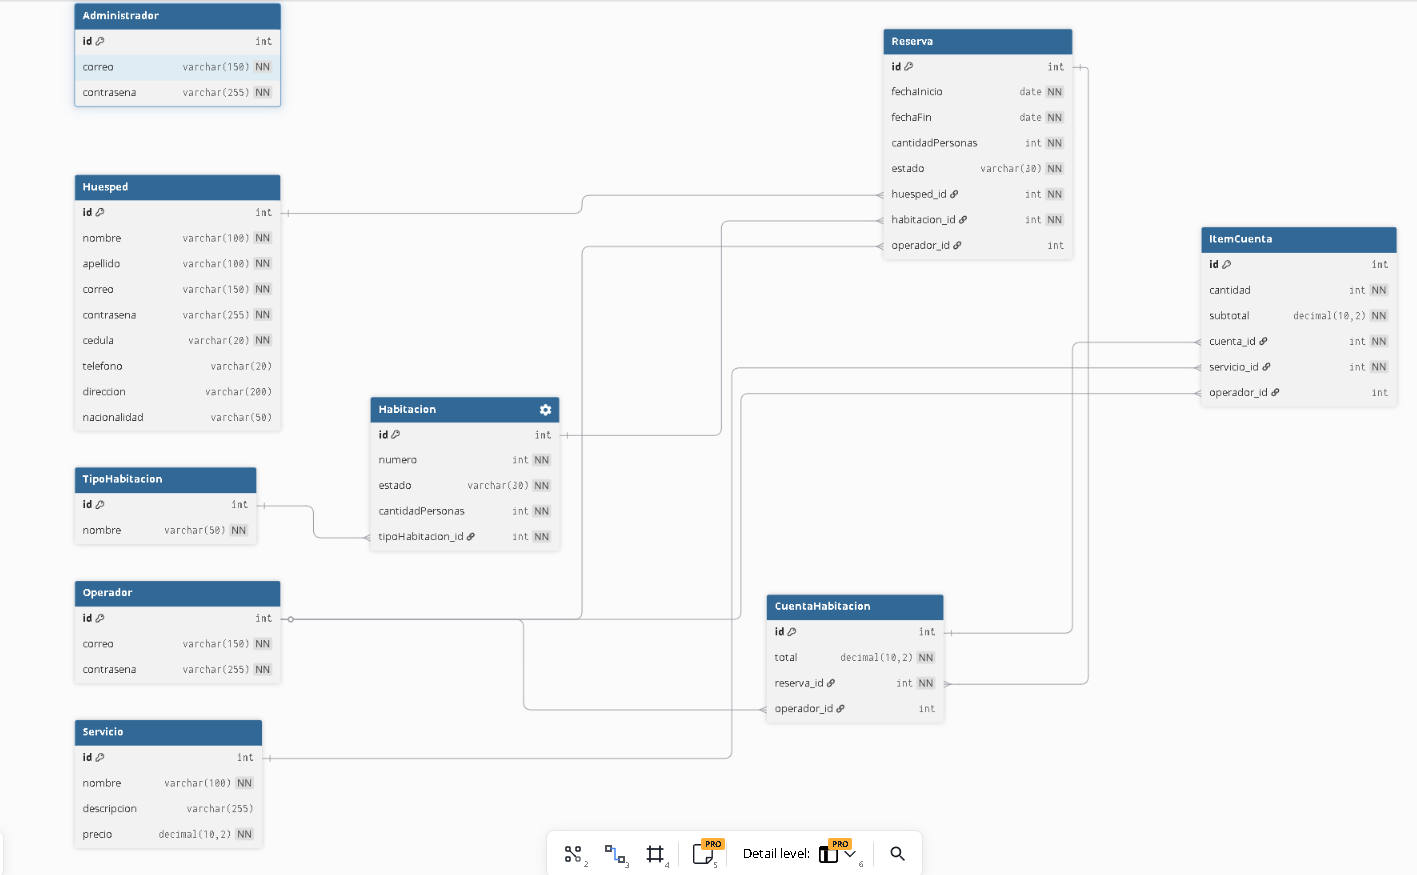
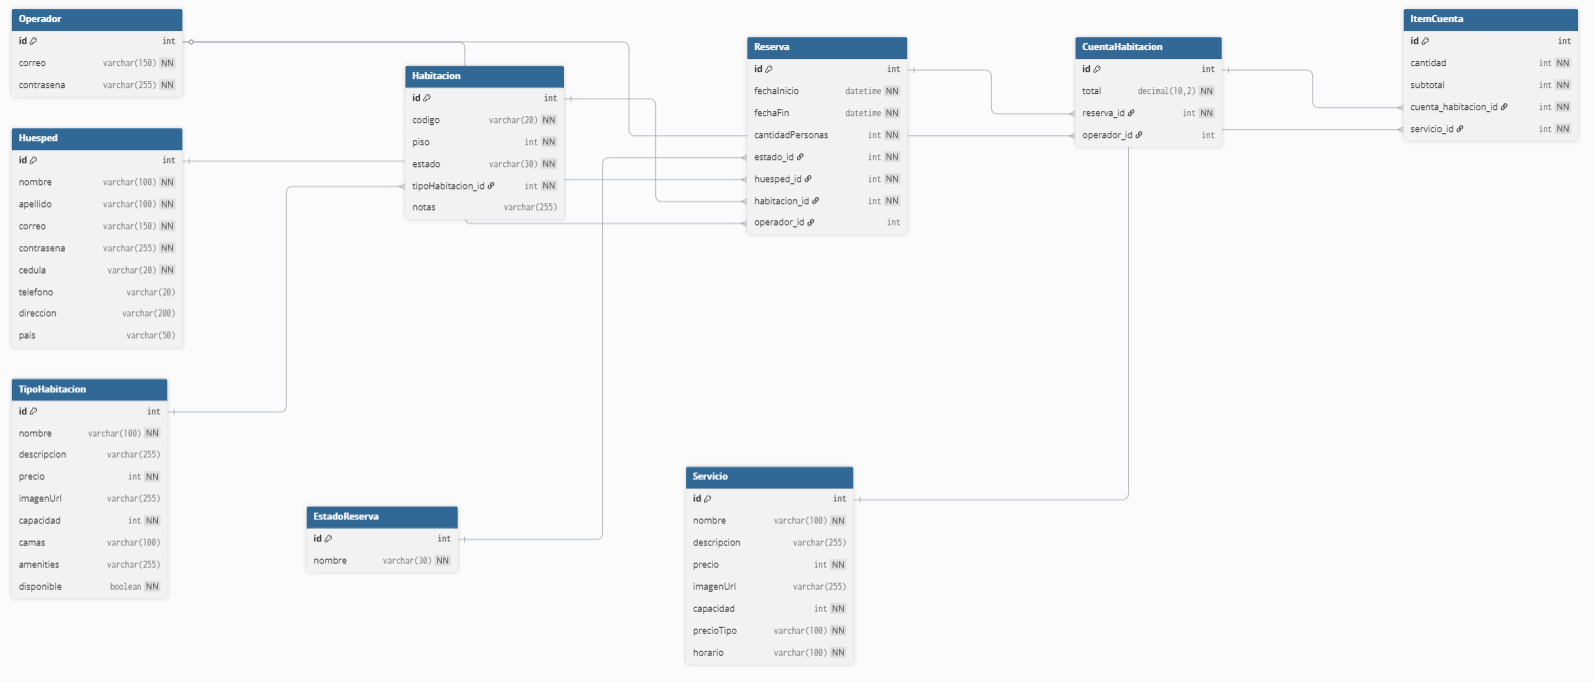
Actualización del diagrama ERD con nueva versión

diff --git a/demo/src/main/java/com/example/demo/controller/RoomTypeController.java b/demo/src/main/java/com/example/demo/controller/RoomTypeController.java
@@ -1,0 +1,106 @@
+package com.example.demo.controller;
+
+import com.example.demo.entities.RoomType;
+import com.example.demo.repository.RoomTypeRepository;
+import org.springframework.stereotype.Controller;
+import org.springframework.ui.Model;
+import org.springframework.web.bind.annotation.*;
+
+@RequestMapping("/roomTypes")
+@Controller
+public class RoomTypeController {
+
+    private final RoomTypeRepository repo;
+
+    public RoomTypeController(RoomTypeRepository repo) {
+        this.repo = repo;
+    }
+
+    // ✅ VER TODAS LAS HABITACIONES
+    @GetMapping("/admin")
+    public String roomTypesAdmin(Model model) {
+        model.addAttribute("roomTypes", repo.findAll());
+        return "habitaciones-admin";
+    }
+
+    // ✅ MOSTRAR FORMULARIO PARA CREAR NUEVA HABITACIÓN
+    @GetMapping("/crear")
+    public String crearForm(Model model) {
+        model.addAttribute("roomType", new RoomType());
+        return "habitacion-form";
+    }
+
+    // ✅ GUARDAR NUEVA HABITACIÓN
+    @PostMapping("/crear")
+    public String crear(
+            @RequestParam String name,
+            @RequestParam String tipoHabitacion,
+            @RequestParam int capacity,
+            @RequestParam int numero,
+            @RequestParam String estado) {
+        
+        RoomType roomType = new RoomType();
+        roomType.setName(name);
+        roomType.setTipoHabitacion(tipoHabitacion);
+        roomType.setCapacity(capacity);
+        roomType.setNumero(numero);
+        roomType.setEstado(estado);
+        
+        repo.save(roomType);
+        return "redirect:/roomTypes/admin?ok";
+    }
+
+    // ✅ MOSTRAR FORMULARIO PARA EDITAR HABITACIÓN
+    @GetMapping("/editar/{id}")
+    public String editarForm(@PathVariable int id, Model model) {
+        RoomType roomType = repo.findById(id);
+        if (roomType == null) {
+            return "redirect:/roomTypes/admin?error";
+        }
+        model.addAttribute("roomType", roomType);
+        return "habitacion-form";
+    }
+
+    // ✅ ACTUALIZAR HABITACIÓN
+    @PostMapping("/actualizar/{id}")
+    public String actualizar(
+            @PathVariable int id,
+            @RequestParam String name,
+            @RequestParam String tipoHabitacion,
+            @RequestParam int capacity,
+            @RequestParam int numero,
+            @RequestParam String estado) {
+        
+        RoomType roomType = repo.findById(id);
+        if (roomType == null) {
+            return "redirect:/roomTypes/admin?error";
+        }
+        
+        roomType.setName(name);
+        roomType.setTipoHabitacion(tipoHabitacion);
+        roomType.setCapacity(capacity);
+        roomType.setNumero(numero);
+        roomType.setEstado(estado);
+        
+        repo.save(roomType);
+        return "redirect:/roomTypes/admin?ok";
+    }
+
+    // ✅ ELIMINAR HABITACIÓN
+    @GetMapping("/eliminar/{id}")
+    public String eliminar(@PathVariable int id) {
+        repo.deleteById(id);
+        return "redirect:/roomTypes/admin?ok";
+    }
+
+    // ✅ VER DETALLE DE UNA HABITACIÓN
+    @GetMapping("/{id}")
+    public String verDetalle(@PathVariable int id, Model model) {
+        RoomType roomType = repo.findById(id);
+        if (roomType == null) {
+            return "redirect:/roomTypes/admin?error";
+        }
+        model.addAttribute("roomType", roomType);
+        return "habitacion-detalle";
+    }
+}

diff --git a/demo/src/main/java/com/example/demo/repository/RoomTypeRepository.java b/demo/src/main/java/com/example/demo/repository/RoomTypeRepository.java
@@ -1,0 +1,80 @@
+package com.example.demo.repository;
+
+import com.example.demo.entities.RoomType;
+import org.springframework.stereotype.Repository;
+
+import java.util.ArrayList;
+import java.util.HashMap;
+import java.util.List;
+import java.util.Map;
+
+@Repository
+public class RoomTypeRepository {
+
+    private final Map<Integer, RoomType> roomTypes = new HashMap<>();
+    private int nextId = 1;
+
+    public RoomTypeRepository() {
+        // Datos iniciales de ejemplo
+        roomTypes.put(1, new RoomType(1, "Habitación 101", "Doble", 2, 101, "Disponible"));
+        roomTypes.put(2, new RoomType(2, "Habitación 102", "Suite", 4, 102, "Disponible"));
+        roomTypes.put(3, new RoomType(3, "Habitación 201", "Sencilla", 1, 201, "Ocupada"));
+        roomTypes.put(4, new RoomType(4, "Habitación 202", "Doble", 2, 202, "Disponible"));
+        nextId = 5;
+    }
+
+
+
+
+
+
+
+
+
+    // Obtener todas las habitaciones
+    public List<RoomType> findAll() {
+        return new ArrayList<>(roomTypes.values());
+    }
+
+    // Obtener habitación por ID
+    public RoomType findById(int id) {
+        return roomTypes.get(id);
+    }
+
+    // Guardar (crear o actualizar)
+    public void save(RoomType roomType) {
+        if (roomType.getId() == 0) {
+            roomType.setId(nextId);
+            nextId++;
+        }
+        roomTypes.put(roomType.getId(), roomType);
+    }
+
+    // Eliminar habitación por ID
+    public void deleteById(int id) {
+        roomTypes.remove(id);
+    }
+
+    // Contar habitaciones
+    public int count() {
+        return roomTypes.size();
+    }
+
+    // Obtener próximo ID
+    public int getNextId() {
+        return nextId;
+    }
+}
+
+
+
+
+
+
+
+
+
+
+
+
+
